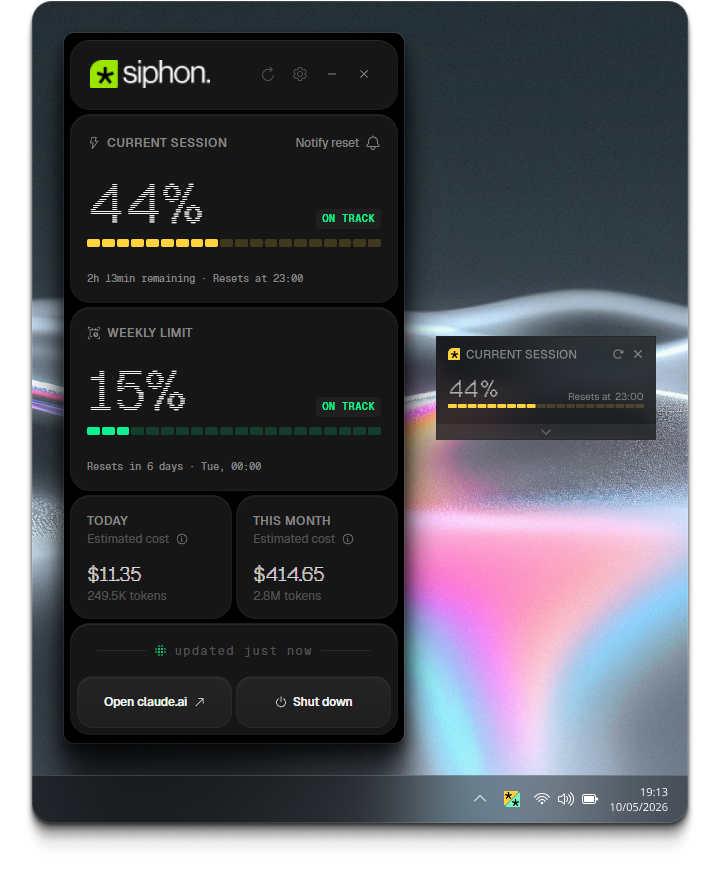
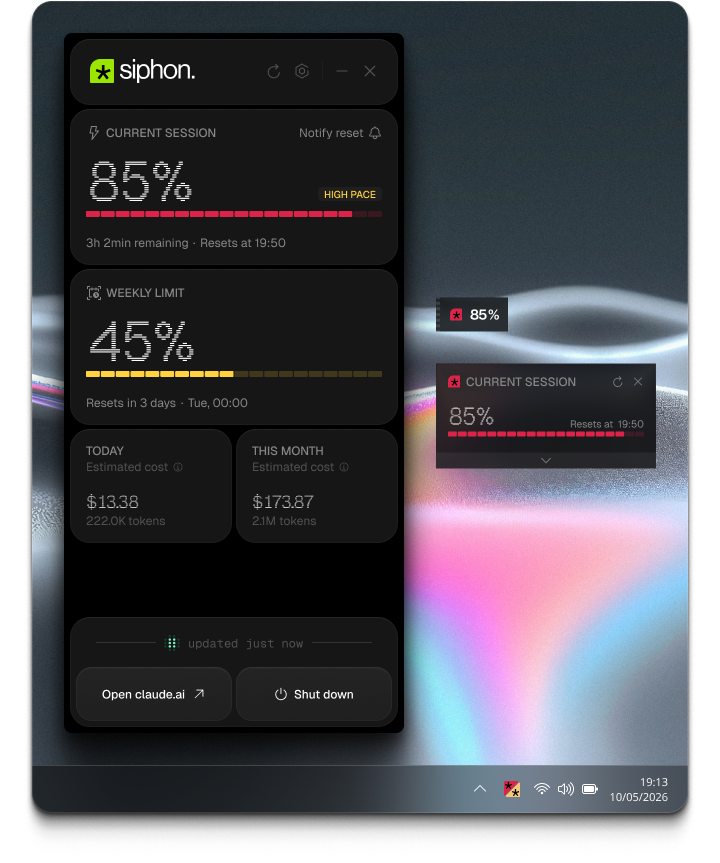
docs(readme): fix links, pace indicator, add mini widget; drop screenshots v0.15.3

diff --git a/src/renderer/styles.css b/src/renderer/styles.css
@@ -786,18 +786,18 @@ body[data-view="onboard"] .app-footer {
   overflow: hidden;
   text-overflow: ellipsis;
   white-space: nowrap;
-  font-family: var(--font-mono);
-  font-size: 10px;
+  font-family: var(--font-sans);
+  font-size: var(--text-sm);
   font-variant-numeric: tabular-nums;
 }
 
 .quota-pace {
   display: inline-flex;
   align-items: center;
-  padding: 0 var(--space-2);
+  padding: var(--space-none) var(--space-2);
   min-height: 20px;
   border-radius: var(--radius-xs);
-  font-family: var(--font-mono);
+  font-family: var(--font-sans);
   font-size: var(--text-xs);
   font-weight: var(--weight-medium);
   line-height: var(--leading-none);
@@ -1216,7 +1216,7 @@ body[data-refreshing="true"] .card {
   margin: var(--space-3) var(--space-5) 0;
   padding: var(--space-4) var(--space-5);
   border: 1px solid var(--destructive);
-  border-radius: 10px;
+  border-radius: var(--radius-sm);
   background: transparent;
   color: var(--destructive);
   font-family: var(--font-sans);

diff --git a/README.md b/README.md
@@ -29,10 +29,10 @@ This is a Windows port of [appariciojunior/siphonClaudeUsage](https://github.com
 * **Cost tracking** | Today's and this month's spend in USD, computed locally from Claude Code's usage and pricing files
 * **Reset notification** | Windows toast when your session resets — even if the app was closed when it happened
 * **Sound alerts** | Three independent audio cues: session reset, session exhausted (100%), and quota warnings (70%/90%) — each with its own toggle, test button, and volume slider
-* **Floating widget** | Always-on-top mini widget (PiP-style) you can drag anywhere on screen
+* **Floating widget** | Always-on-top mini widget (PiP-style) you can drag anywhere on screen — two layouts: classic (full stats) and mini (compact single-line)
 * **Configurable refresh** | Local refresh defaults to 30 seconds, with 5, 15, and 30 minute options in Settings
 * **Start with Windows** | Optional autostart, with a separate setting for whether the window appears after login
-* **Pace indicator** | Session and weekly cards show whether your usage pace is on track or likely to exhaust the quota before it resets
+* **Pace indicator** | Session card shows whether your usage pace is on track or likely to exhaust the quota before it resets
 * **Color-coded tray icon** | <img src="assets/tray-icon/tray-ok-high.png" width="18" alt="tray icon sample" /> - Icon encodes both session and weekly quota levels simultaneously — two independent color channels in one icon
 * **Localization** | UI available in English and Brazilian Portuguese, switchable from Settings
 
@@ -51,8 +51,8 @@ Download the latest `Siphon Setup <version>.exe` from [Releases](../../releases)
 ### From source
 
 ```powershell
-git clone https://github.com/kayodante/siphonClaudeUsage.git
-cd siphonClaudeUsage
+git clone https://github.com/kayodante/Win-siphonClaudeUsage.git
+cd Win-siphonClaudeUsage
 npm install
 npm start
 ```
@@ -108,8 +108,6 @@ npm run lint  # syntax-only check
 ```
 
 Tests live in `test/` and mirror the `src/main/` module structure. The test for `resetNotificationScheduler.test.js` covers the tricky timer-clamp and persistence paths — run it whenever you touch the scheduler.
-
-See [ARCHITECTURE.md](ARCHITECTURE.md) for a full module map and data-flow diagrams, [DESIGN.md](DESIGN.md) for the visual design system, and [ROADMAP.md](ROADMAP.md) for what's planned next.
 
 ## Tech stack
 